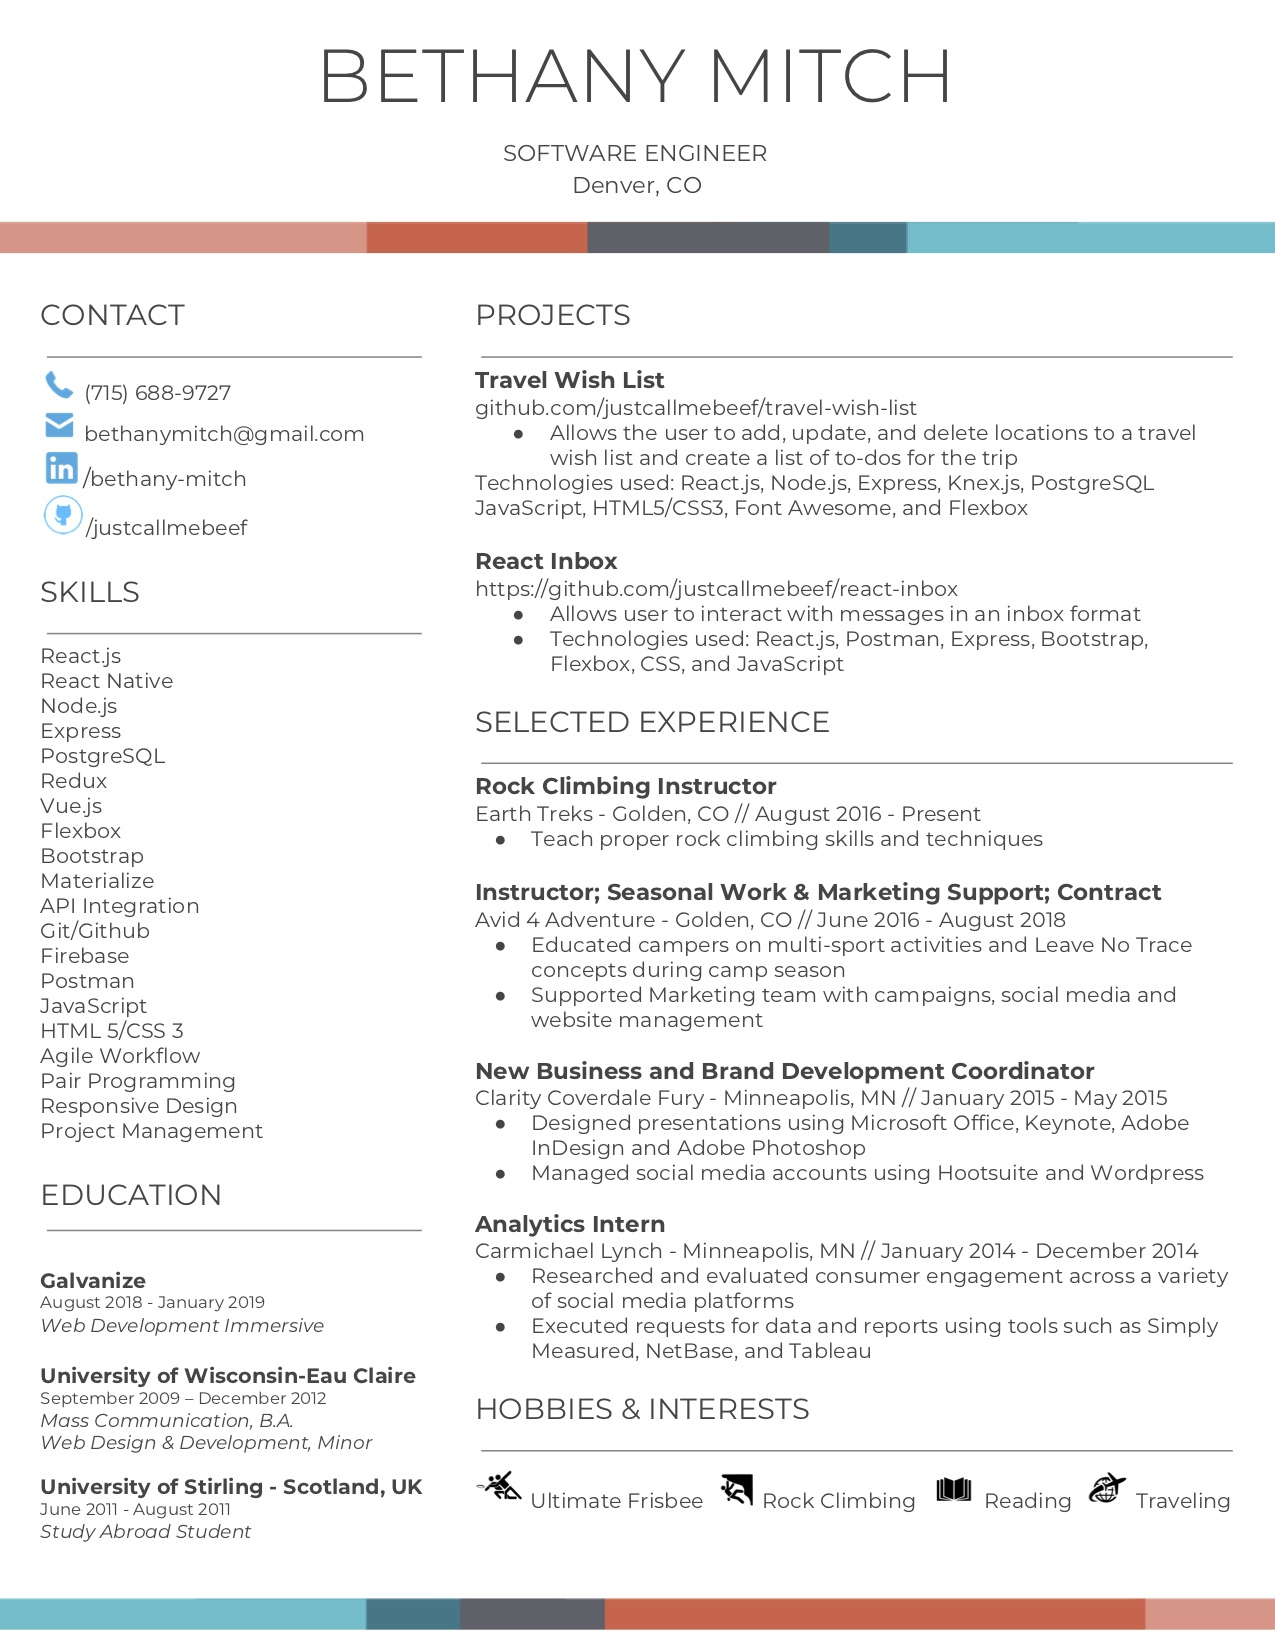
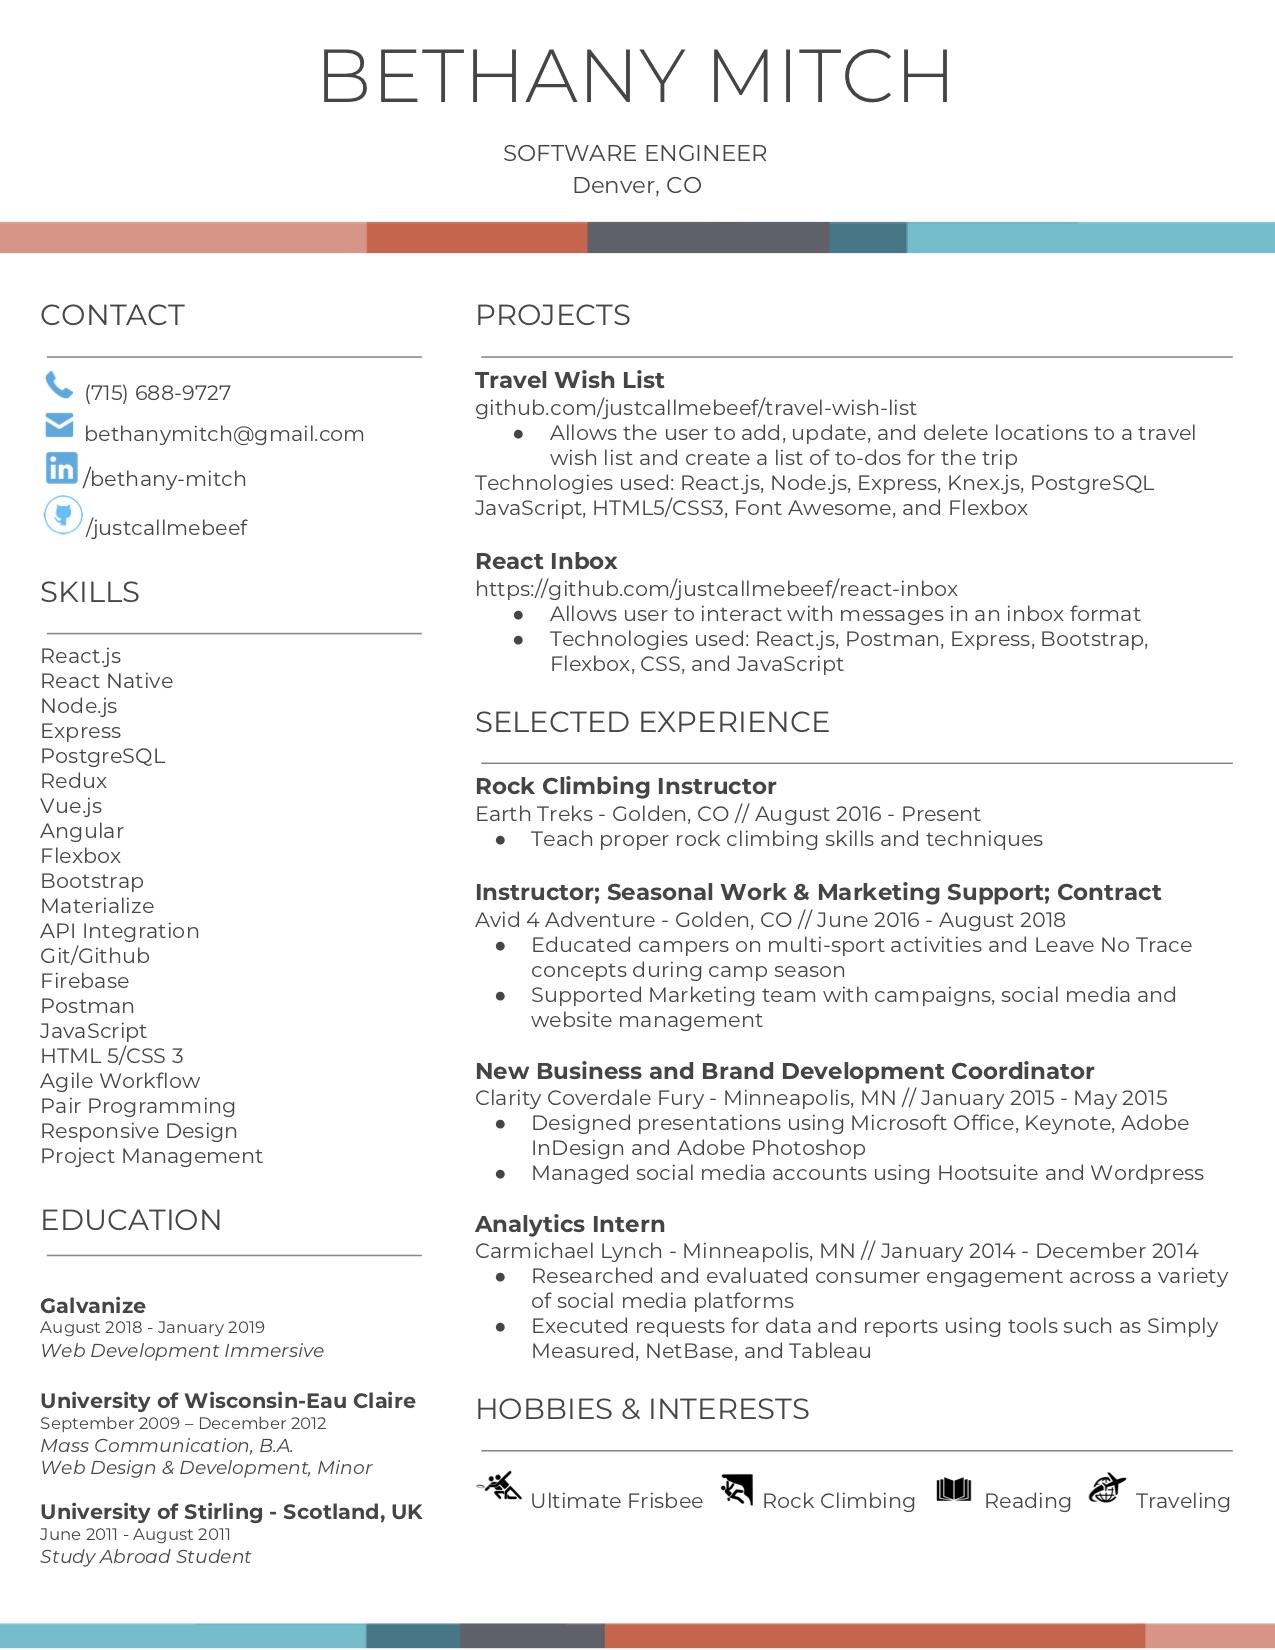
added Angular to my skillset on resume page

Changed region(s): [[0.0, 0.4945, 1.0, 1.0]]

diff --git a/src/components/Resume.js b/src/components/Resume.js
@@ -7,27 +7,6 @@ import NavMobile from './NavMobile'
 const Resume = (props) => {
     return (
         <Fragment>
-            {/* <nav id="littleScreen" className="navBar">
-                <span className="navBar-toggle">
-                    <i onClick={props.navBarResponsive} id="icon" className="fa fa-bars"></i>
-                </span>
-            <p id="logo"><Link to='/' style={{ textDecoration: 'none', color: '#008080' }}>bpm</Link></p>
-            <ul className={`${props.toggleMenu ? 'mainNav' : 'mainNav-none' }`}>
-                <li><Link to='/' style={{ textDecoration: 'none', color: '#008080' }}>Projects</Link></li>
-                <li className="active"><Link to='/resume' style={{ textDecoration: 'none', color: '#008080' }}>Resume</Link></li>
-                <li><Link to='/about' style={{ textDecoration: 'none', color: '#008080' }}>About</Link></li>
-                <li><Link to='/contact' style={{ textDecoration: 'none', color: '#008080' }}>Contact</Link></li>
-            </ul>
-            </nav>
-            <nav id="bigScreen" className="navBar">
-            <p id="logo"><Link to='/' style={{ textDecoration: 'none', color: '#008080' }}>bpm</Link></p>
-            <ul className={`${props.toggleMenu ? 'mainNav' : 'mainNav-none' }`}>
-                <li><Link to='/' style={{ textDecoration: 'none', color: '#008080' }}>Projects</Link></li>
-                <li className="active"><Link to='/resume' style={{ textDecoration: 'none', color: '#008080' }}>Resume</Link></li>
-                <li><Link to='/about' style={{ textDecoration: 'none', color: '#008080' }}>About</Link></li>
-                <li><Link to='/contact' style={{ textDecoration: 'none', color: '#008080' }}>Contact</Link></li>
-            </ul>
-            </nav> */}
             <NavDesktop />
             <NavMobile toggleMenu={props.toggleMenu} navBarResponsive={props.navBarResponsive} />
             <div className="resumeDiv">
